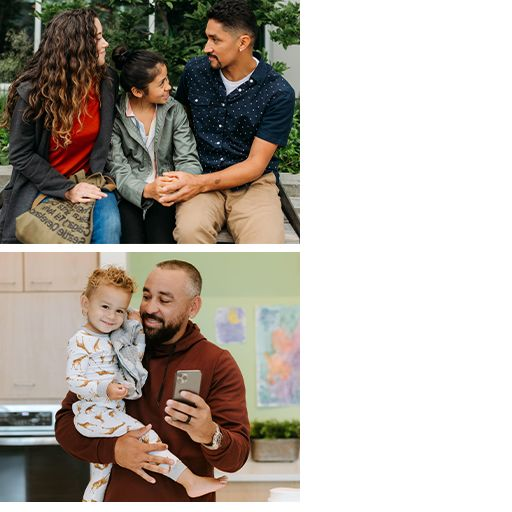
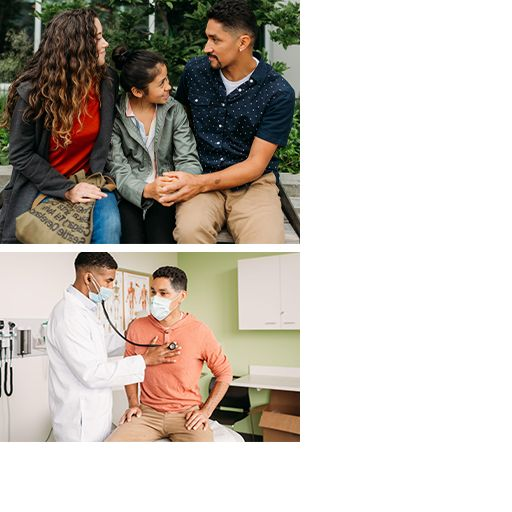
safety alt img change

Changed region(s): [[0.0, 0.4688, 0.5938, 1.0]]

diff --git a/CO-Safety/300x250_alt/CO_Safety_300x250_alt.js b/CO-Safety/300x250_alt/CO_Safety_300x250_alt.js
@@ -925,16 +925,18 @@ if (reversed == null) { reversed = false; }
 	this.instance_7.setTransform(149.75,183.95,1,1,0,0,0,0,66.1);
 	this.instance_7.alpha = 0.6992;
 
-	this.timeline.addTween(cjs.Tween.get(this.instance_7).wait(326));
+	this.timeline.addTween(cjs.Tween.get(this.instance_7).wait(138).to({alpha:0.8008},0).wait(188));
 
 	// PIC
 	this.instance_8 = new lib.safety_img1_300x250();
 	this.instance_8.setTransform(0,1);
 
 	this.instance_9 = new lib.safety_img2_300x250();
-	this.instance_9.setTransform(0,1);
 
-	this.timeline.addTween(cjs.Tween.get({}).to({state:[{t:this.instance_8}]}).to({state:[{t:this.instance_9}]},138).wait(188));
+	this.instance_10 = new lib.safety_img2_300x250();
+	this.instance_10.setTransform(0,1);
+
+	this.timeline.addTween(cjs.Tween.get({}).to({state:[{t:this.instance_8}]}).to({state:[{t:this.instance_10},{t:this.instance_9}]},138).wait(188));
 
 	this._renderFirstFrame();
 
